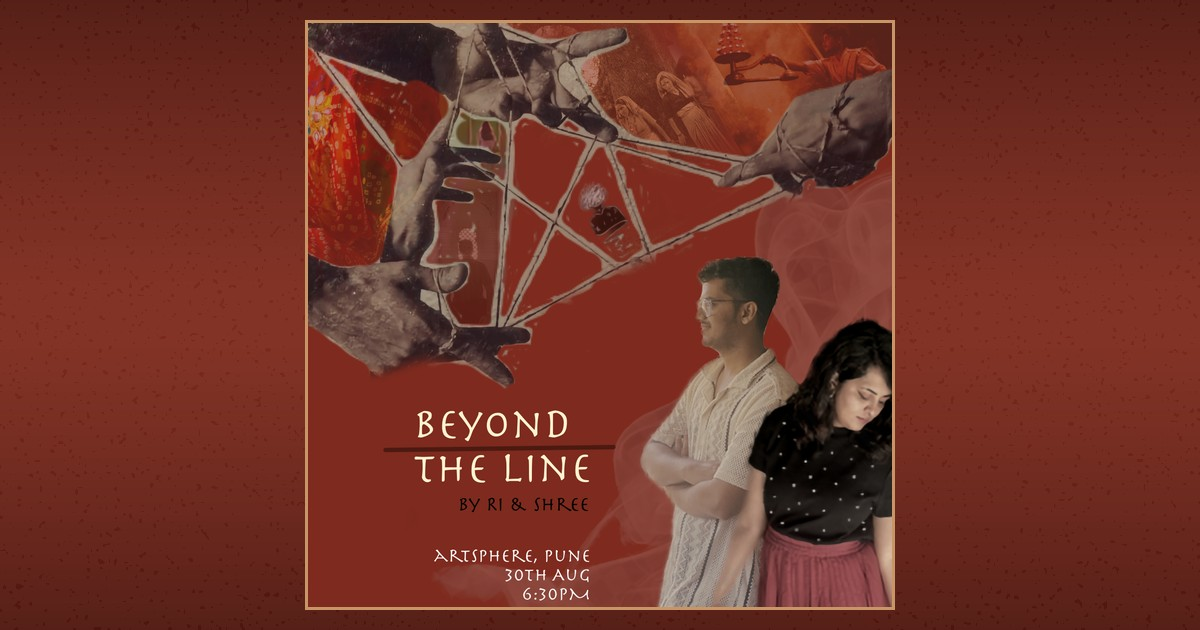
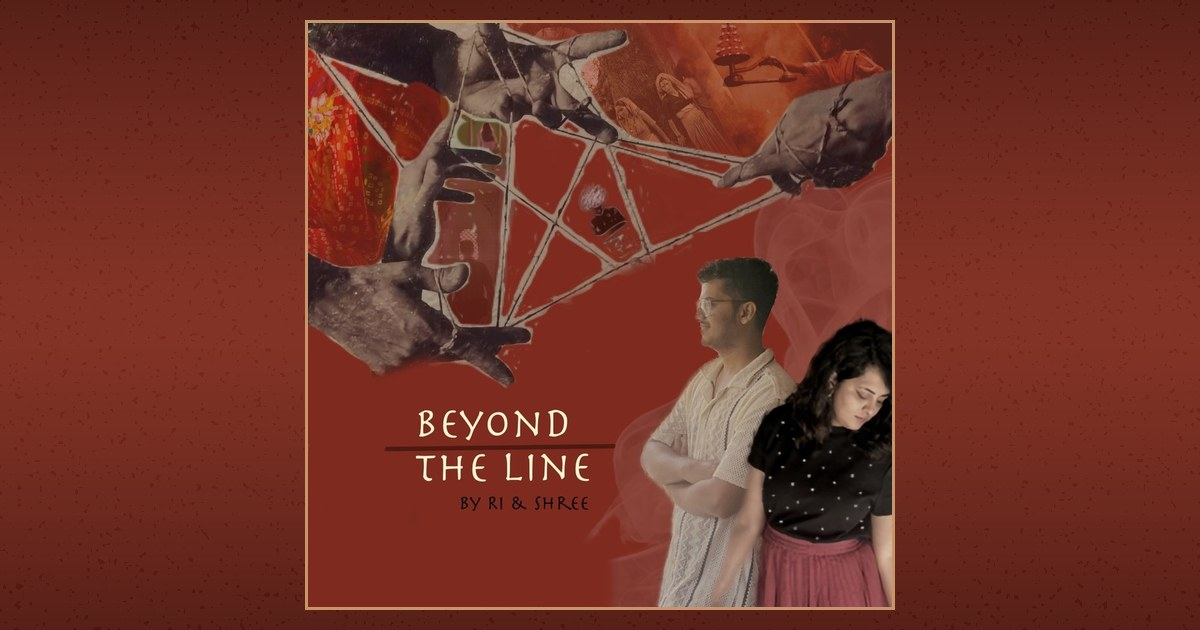
Register: Nagpur concert, 1 Nov — venue/time TBA; poster with old venue/date erased
Claude-Session: https://claude.ai/code/session_01FpHtT57KEFHq9Vg9gJeae7

diff --git a/register.html b/register.html
@@ -3,11 +3,11 @@
 <head>
   <meta charset="UTF-8" />
   <meta name="viewport" content="width=device-width, initial-scale=1.0" />
-  <title>Beyond the Line — Ri &amp; Shree · Live in Pune, 30 August</title>
-  <meta name="description" content="An evening of songs, stories and emotions with Ri &amp; Shree. Artsphere, Pune — Sunday 30 August, 6:30 PM. Pay as you wish." />
-  <meta property="og:title" content="Beyond the Line — Ri &amp; Shree · Pune, 30 August" />
+  <title>Beyond the Line — Ri &amp; Shree · Live in Nagpur, 1 November</title>
+  <meta name="description" content="An evening of songs, stories and emotions with Ri &amp; Shree. Nagpur — Sunday 1 November. Pay as you wish." />
+  <meta property="og:title" content="Beyond the Line — Ri &amp; Shree · Nagpur, 1 November" />
   <meta property="og:description" content="A line you learned to live inside. A line you never stopped wanting to cross. One evening on the other side — songs, stories and emotions." />
-  <meta property="og:image" content="https://www.riandshree.com/share-card.jpg?v=4" />
+  <meta property="og:image" content="https://www.riandshree.com/share-card.jpg?v=5" />
   <meta property="og:url" content="https://www.riandshree.com/register.html" />
   <meta property="og:type" content="website" />
   <meta name="twitter:card" content="summary_large_image" />
@@ -623,11 +623,11 @@
     <div class="hero-inner">
 
       <div class="poster-frame">
-        <img src="poster-900.jpg?v=4" alt="Beyond the Line — a concert by Ri &amp; Shree. Hands holding a cat's cradle of string over a deep red collage." width="900" height="900" />
+        <img src="poster-clean.jpg?v=5" alt="Beyond the Line — a concert by Ri &amp; Shree. Hands holding a cat's cradle of string over a deep red collage." width="900" height="900" />
       </div>
 
       <div class="hero-text">
-        <div class="eyebrow"><span class="dot"></span>Live · Pune</div>
+        <div class="eyebrow"><span class="dot"></span>Live · Nagpur</div>
 
         <h1 class="hero-line">
           A line you learned to live inside.<br />
@@ -639,16 +639,16 @@
         <div class="hero-meta">
           <span class="chip">
             <svg viewBox="0 0 24 24"><rect x="3" y="5" width="18" height="16" rx="2"/><line x1="3" y1="10" x2="21" y2="10"/><line x1="8" y1="3" x2="8" y2="7"/><line x1="16" y1="3" x2="16" y2="7"/></svg>
-            Sun · 30 Aug
+            Sun · 1 Nov
           </span>
           <span class="chip">
             <svg viewBox="0 0 24 24"><circle cx="12" cy="12" r="9"/><polyline points="12,7 12,12 15,14"/></svg>
-            6:30 PM
+            Time TBA
           </span>
-          <a class="chip" href="https://share.google/ibRtW5TWI0tfJ2ATs" target="_blank" rel="noopener">
+          <span class="chip">
             <svg viewBox="0 0 24 24"><path d="M12 21s7-6.2 7-11a7 7 0 1 0-14 0c0 4.8 7 11 7 11z"/><circle cx="12" cy="10" r="2.6"/></svg>
-            Artsphere, Pune
-          </a>
+            Nagpur
+          </span>
         </div>
 
         <div>
@@ -674,15 +674,15 @@
             <div class="detail-row">
               <div class="detail-key">When</div>
               <div class="detail-val">
-                Sunday, 30 August · 6:30 PM
-                <small>Come early — we start on time</small>
+                Sunday, 1 November
+                <small>Time to be announced — we'll share it soon</small>
               </div>
             </div>
             <div class="detail-row">
               <div class="detail-key">Where</div>
               <div class="detail-val">
-                Artsphere, Pune
-                <small><a href="https://share.google/ibRtW5TWI0tfJ2ATs" target="_blank" rel="noopener">Open in Google Maps →</a></small>
+                Nagpur
+                <small>Venue to be announced — we'll share it soon</small>
               </div>
             </div>
             <div class="detail-row">
@@ -757,7 +757,7 @@
             <div class="tick"><svg viewBox="0 0 24 24"><polyline points="4,13 9,18 20,6"/></svg></div>
             <h2 id="success-head">There's a seat with your name on it</h2>
             <p id="success-msg">
-              We'll write before the 30th with directions.<br /><br />
+              We'll write before the 1st with the time, venue and directions.<br /><br />
               Until then — <em>see you on the other side of the line.</em>
             </p>
             <div class="links">
@@ -866,7 +866,7 @@
         phone: form.phone.value.trim(),
         seats: form.seats.value,
         line:  form.line.value.trim(),
-        event: 'Beyond the Line — Artsphere Pune, 30 Aug'
+        event: 'Beyond the Line — Nagpur, 1 Nov'
       };
 
       const showSuccess = () => {
